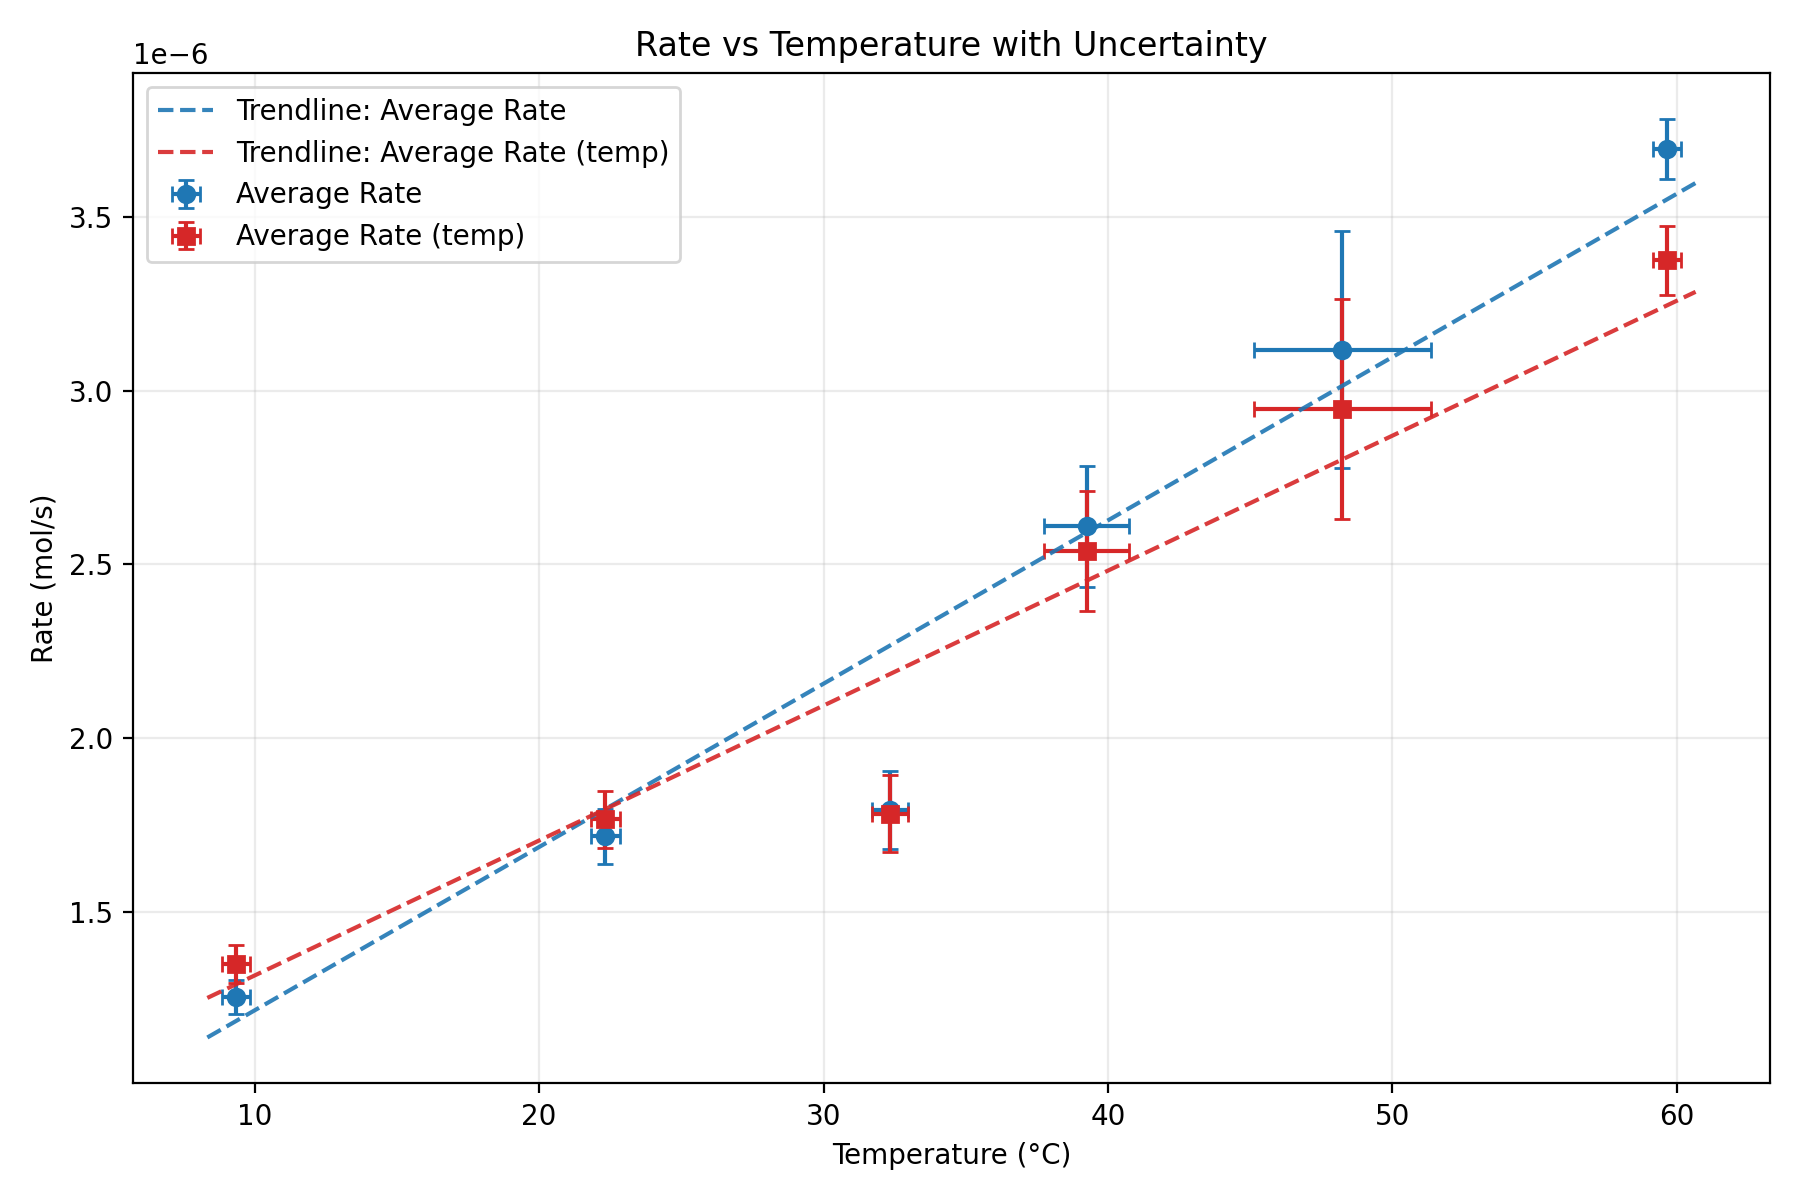
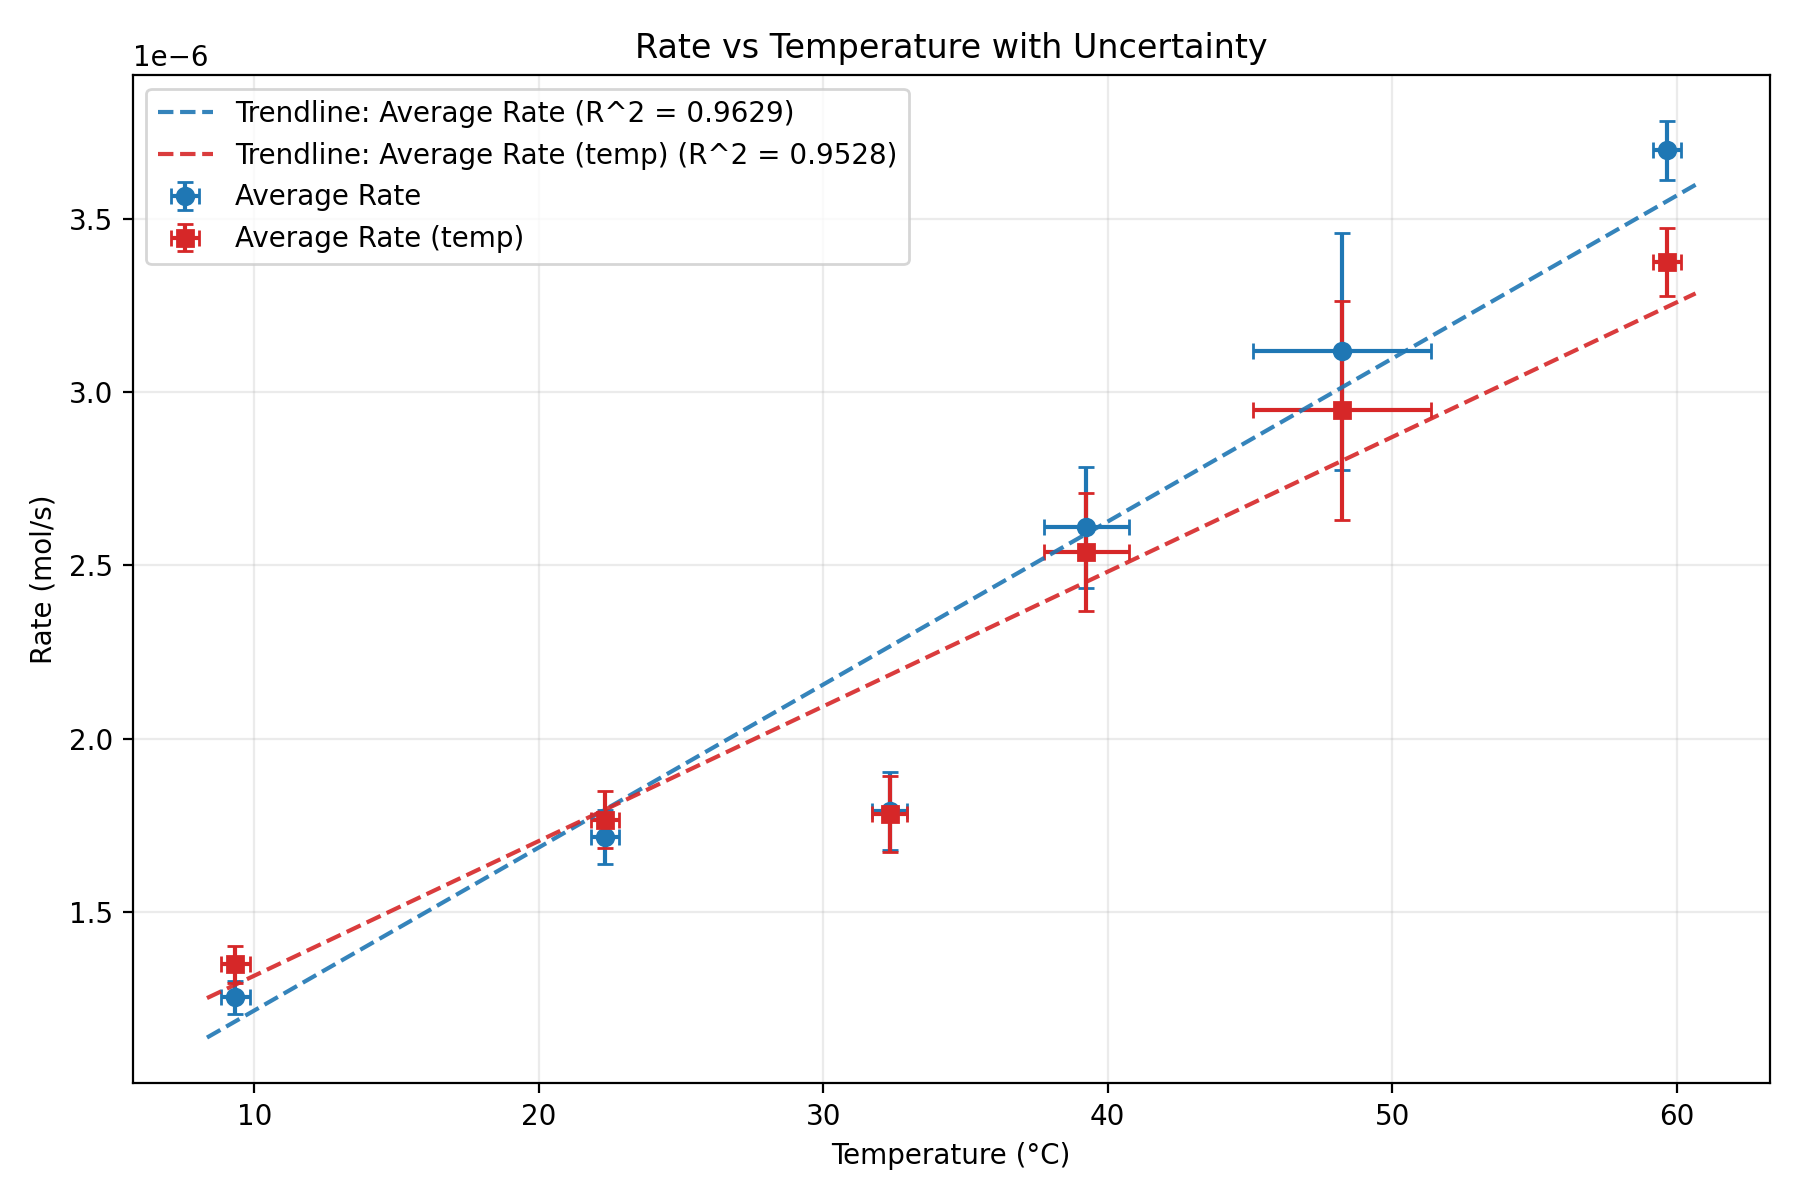
Add weighted R² calculation and ln transformation for trendline fitting

diff --git a/graph.py b/graph.py
@@ -33,6 +33,18 @@ def fit_trendline(x: np.ndarray, y: np.ndarray, yerr: np.ndarray):
 	return coeffs
 
 
+def weighted_r2(x: np.ndarray, y: np.ndarray, yerr: np.ndarray, m: float, b: float) -> float:
+	safe_yerr = np.where(yerr <= 0, np.min(yerr[yerr > 0]) if np.any(yerr > 0) else 1.0, yerr)
+	w = 1.0 / (safe_yerr ** 2)
+	y_pred = m * x + b
+	y_bar = np.average(y, weights=w)
+	ss_res = np.sum(w * (y - y_pred) ** 2)
+	ss_tot = np.sum(w * (y - y_bar) ** 2)
+	if ss_tot <= 0:
+		return np.nan
+	return 1.0 - (ss_res / ss_tot)
+
+
 def main():
 	base_dir = Path(__file__).resolve().parent
 	csv_path = base_dir / "data.csv"
@@ -41,10 +53,25 @@ def main():
 
 	m1, b1 = fit_trendline(x, y1, y1err)
 	m2, b2 = fit_trendline(x, y2, y2err)
+	r2_1 = weighted_r2(x, y1, y1err, m1, b1)
+	r2_2 = weighted_r2(x, y2, y2err, m2, b2)
+
+	# Uncertainty propagation for ln(y): sigma_ln(y) = sigma_y / y
+	y1_ln = np.log(y1)
+	y2_ln = np.log(y2)
+	y1_ln_err = y1err / y1
+	y2_ln_err = y2err / y2
+
+	m1_ln, b1_ln = fit_trendline(x, y1_ln, y1_ln_err)
+	m2_ln, b2_ln = fit_trendline(x, y2_ln, y2_ln_err)
+	r2_1_ln = weighted_r2(x, y1_ln, y1_ln_err, m1_ln, b1_ln)
+	r2_2_ln = weighted_r2(x, y2_ln, y2_ln_err, m2_ln, b2_ln)
 
 	x_line = np.linspace(x.min() - 1, x.max() + 1, 200)
 	y1_line = m1 * x_line + b1
 	y2_line = m2 * x_line + b2
+	y1_ln_line = m1_ln * x_line + b1_ln
+	y2_ln_line = m2_ln * x_line + b2_ln
 
 	plt.figure(figsize=(9, 6))
 	plt.errorbar(
@@ -68,8 +95,22 @@ def main():
 		label="Average Rate (temp)",
 	)
 
-	plt.plot(x_line, y1_line, "--", color="#1f77b4", alpha=0.9, label="Trendline: Average Rate")
-	plt.plot(x_line, y2_line, "--", color="#d62728", alpha=0.9, label="Trendline: Average Rate (temp)")
+	plt.plot(
+		x_line,
+		y1_line,
+		"--",
+		color="#1f77b4",
+		alpha=0.9,
+		label=f"Trendline: Average Rate (R^2 = {r2_1:.4f})",
+	)
+	plt.plot(
+		x_line,
+		y2_line,
+		"--",
+		color="#d62728",
+		alpha=0.9,
+		label=f"Trendline: Average Rate (temp) (R^2 = {r2_2:.4f})",
+	)
 
 	plt.title("Rate vs Temperature with Uncertainty")
 	plt.xlabel("Temperature (°C)")
@@ -81,6 +122,61 @@ def main():
 	output_path = base_dir / "graph.png"
 	plt.savefig(output_path, dpi=200)
 	plt.show()
+
+	plt.figure(figsize=(9, 6))
+	plt.errorbar(
+		x,
+		y1_ln,
+		xerr=xerr,
+		yerr=y1_ln_err,
+		fmt="o",
+		capsize=3,
+		color="#1f77b4",
+		label="ln(Average Rate)",
+	)
+	plt.errorbar(
+		x,
+		y2_ln,
+		xerr=xerr,
+		yerr=y2_ln_err,
+		fmt="s",
+		capsize=3,
+		color="#d62728",
+		label="ln(Average Rate (temp))",
+	)
+
+	plt.plot(
+		x_line,
+		y1_ln_line,
+		"--",
+		color="#1f77b4",
+		alpha=0.9,
+		label=f"Linear fit in ln-space (Average Rate), R^2 = {r2_1_ln:.4f}",
+	)
+	plt.plot(
+		x_line,
+		y2_ln_line,
+		"--",
+		color="#d62728",
+		alpha=0.9,
+		label=f"Linear fit in ln-space (Average Rate (temp)), R^2 = {r2_2_ln:.4f}",
+	)
+
+	plt.title("ln(Rate) vs Temperature with Uncertainty")
+	plt.xlabel("Temperature (°C)")
+	plt.ylabel("ln(Rate)")
+	plt.grid(alpha=0.25)
+	plt.legend()
+	plt.tight_layout()
+
+	output_path_ln = base_dir / "graph_ln.png"
+	plt.savefig(output_path_ln, dpi=200)
+	plt.show()
+
+	print(f"Average Rate fit R^2: {r2_1:.6f}")
+	print(f"Average Rate (temp) fit R^2: {r2_2:.6f}")
+	print(f"ln(Average Rate) fit R^2: {r2_1_ln:.6f}")
+	print(f"ln(Average Rate (temp)) fit R^2: {r2_2_ln:.6f}")
 
 
 if __name__ == "__main__":
